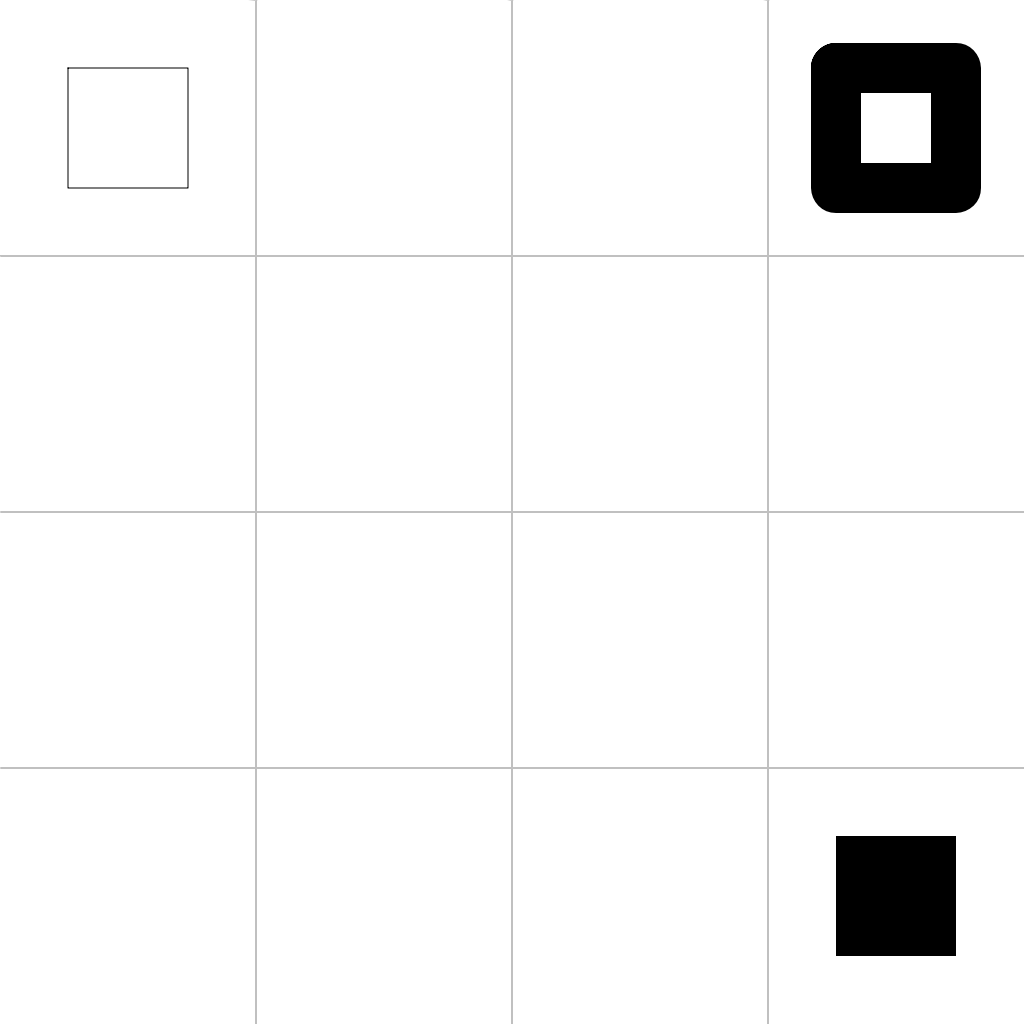
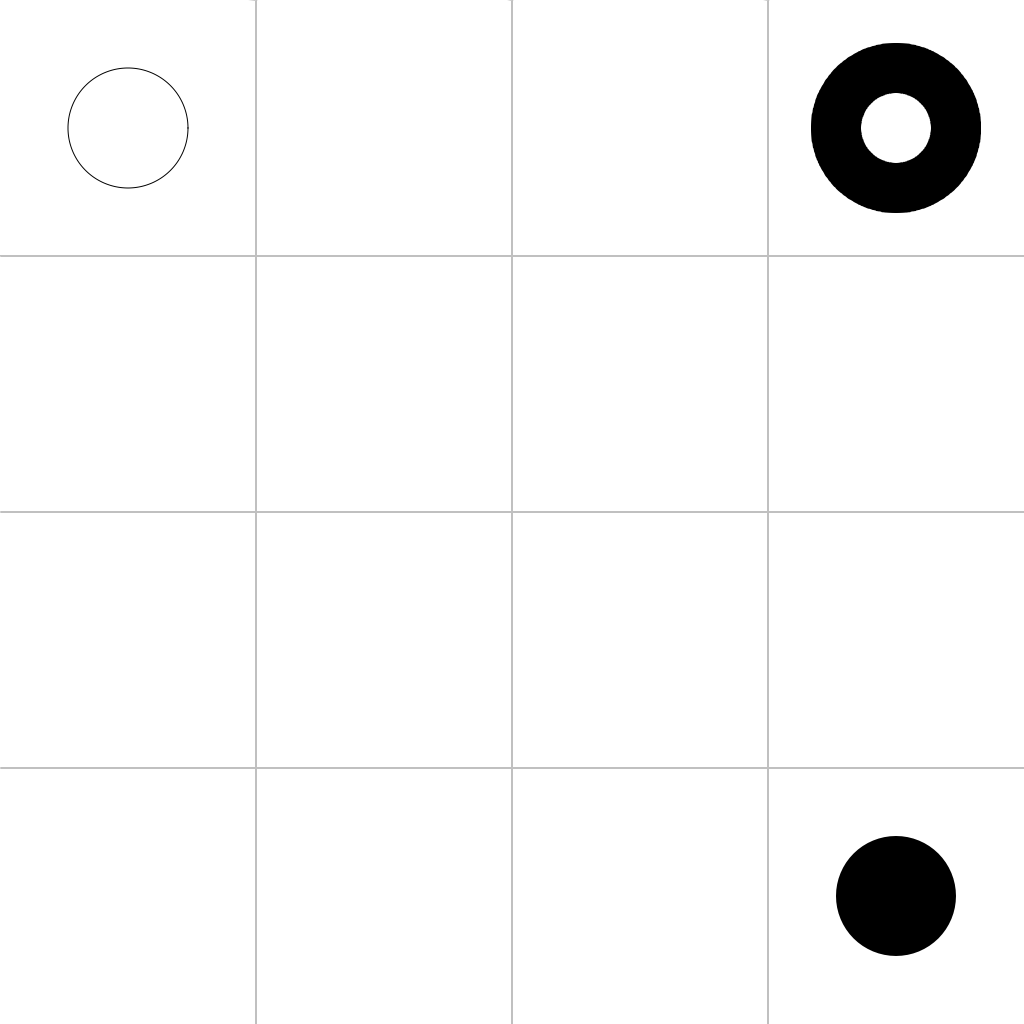
Clean up

diff --git a/examples/example9/example9.go b/examples/example9/example9.go
@@ -9,15 +9,15 @@ import (
 
 func main() {
 	imageConfig := gridder.ImageConfig{
-		Width:  2000,
-		Height: 1000,
+		Width:  1000,
+		Height: 1200,
 		Name:   "example9.png",
 	}
 	gridConfig := gridder.GridConfig{
-		Rows:              4,
-		Columns:           8,
-		LineStrokeWidth:   2,
-		BorderStrokeWidth: 18,
+		Rows:            6,
+		Columns:         5,
+		LineStrokeWidth: 2,
+		BackgroundColor: color.RGBA{R: 135, G: 211, B: 124, A: 255},
 	}
 
 	grid, err := gridder.New(imageConfig, gridConfig)
@@ -25,28 +25,29 @@ func main() {
 		log.Fatal(err)
 	}
 
-	lineConfig := gridder.LineConfig{Dashes: 10}
-	stringConfig := gridder.StringConfig{FontSize: 48}
-	circleConfig := gridder.CircleConfig{Color: color.Gray{}, Radius: 10}
+	headerStringConfig := gridder.StringConfig{FontSize: 100}
+	valueStringConfig := gridder.StringConfig{FontSize: 50}
 
-	grid.PaintCell(1, 2, color.NRGBA{R: 0, G: 0, B: 0, A: 255 / 2})
-	grid.DrawString(1, 2, "Block", stringConfig)
+	headers := []string{"B", "I", "N", "G", "O"}
+	values := [][]string{
+		{"10", "22", "41", "53", "71"},
+		{"66", "20", "40", "50", "2"},
+		{"14", "26", "FREE", "52", "69"},
+		{"15", "29", "37", "51", "65"},
+		{"17", "6", "35", "55", "64"},
+	}
 
-	grid.DrawCircle(0, 0, gridder.CircleConfig{Color: color.NRGBA{R: 255 / 2, G: 0, B: 0, A: 255 / 2}, Radius: 60})
-	grid.DrawLine(0, 0, 1, 1, lineConfig)
-	grid.DrawCircle(1, 1, circleConfig)
-	grid.DrawLine(1, 1, 2, 2, lineConfig)
-	grid.DrawCircle(2, 2, circleConfig)
-	grid.DrawLine(2, 2, 2, 3, lineConfig)
-	grid.DrawCircle(2, 3, circleConfig)
-	grid.DrawLine(2, 3, 2, 4, lineConfig)
-	grid.DrawCircle(2, 4, circleConfig)
-	grid.DrawLine(2, 4, 2, 5, lineConfig)
-	grid.DrawCircle(2, 5, circleConfig)
-	grid.DrawLine(2, 5, 2, 6, lineConfig)
-	grid.DrawCircle(2, 6, circleConfig)
-	grid.DrawLine(2, 6, 3, 7, lineConfig)
-	grid.DrawCircle(3, 7, gridder.CircleConfig{Color: color.NRGBA{R: 0, G: 255 / 2, B: 0, A: 255 / 2}, Radius: 60})
+	circleConfig := gridder.CircleConfig{Radius: 60, Color: color.White}
+	for i, header := range headers {
+		grid.DrawCircle(0, i, circleConfig)
+		grid.DrawString(0, i, header, headerStringConfig)
+	}
 
+	for row := range values {
+		for column := range values[0] {
+			grid.PaintCell(row+1, column, color.White)
+			grid.DrawString(row+1, column, values[row][column], valueStringConfig)
+		}
+	}
 	grid.SavePNG()
 }

diff --git a/examples/example8/example8.go b/examples/example8/example8.go
@@ -9,14 +9,15 @@ import (
 
 func main() {
 	imageConfig := gridder.ImageConfig{
-		Width:  1024,
-		Height: 1024,
+		Width:  2000,
+		Height: 1000,
 		Name:   "example8.png",
 	}
 	gridConfig := gridder.GridConfig{
-		Rows:            4,
-		Columns:         4,
-		LineStrokeWidth: 2,
+		Rows:              4,
+		Columns:           8,
+		LineStrokeWidth:   2,
+		BorderStrokeWidth: 18,
 	}
 
 	grid, err := gridder.New(imageConfig, gridConfig)
@@ -24,7 +25,28 @@ func main() {
 		log.Fatal(err)
 	}
 
-	grid.DrawString(1, 1, "Hello!")
-	grid.DrawString(2, 2, "Hello!", gridder.StringConfig{FontSize: 48, Color: color.RGBA{B: 255 / 2, A: 255 / 2}})
+	lineConfig := gridder.LineConfig{Dashes: 10}
+	stringConfig := gridder.StringConfig{FontSize: 48}
+	circleConfig := gridder.CircleConfig{Color: color.Gray{}, Radius: 10}
+
+	grid.PaintCell(1, 2, color.NRGBA{R: 0, G: 0, B: 0, A: 255 / 2})
+	grid.DrawString(1, 2, "Block", stringConfig)
+
+	grid.DrawCircle(0, 0, gridder.CircleConfig{Color: color.NRGBA{R: 255 / 2, G: 0, B: 0, A: 255 / 2}, Radius: 60})
+	grid.DrawLine(0, 0, 1, 1, lineConfig)
+	grid.DrawCircle(1, 1, circleConfig)
+	grid.DrawLine(1, 1, 2, 2, lineConfig)
+	grid.DrawCircle(2, 2, circleConfig)
+	grid.DrawLine(2, 2, 2, 3, lineConfig)
+	grid.DrawCircle(2, 3, circleConfig)
+	grid.DrawLine(2, 3, 2, 4, lineConfig)
+	grid.DrawCircle(2, 4, circleConfig)
+	grid.DrawLine(2, 4, 2, 5, lineConfig)
+	grid.DrawCircle(2, 5, circleConfig)
+	grid.DrawLine(2, 5, 2, 6, lineConfig)
+	grid.DrawCircle(2, 6, circleConfig)
+	grid.DrawLine(2, 6, 3, 7, lineConfig)
+	grid.DrawCircle(3, 7, gridder.CircleConfig{Color: color.NRGBA{R: 0, G: 255 / 2, B: 0, A: 255 / 2}, Radius: 60})
+
 	grid.SavePNG()
 }

diff --git a/examples/example6/example6.go b/examples/example6/example6.go
@@ -24,8 +24,9 @@ func main() {
 		log.Fatal(err)
 	}
 
-	grid.DrawCircle(0, 0, gridder.CircleConfig{Radius: 60, Color: color.Black, Stroke: true})
-	grid.DrawCircle(0, 3, gridder.CircleConfig{Radius: 60, Color: color.Black, Stroke: true, StrokeWidth: 50})
-	grid.DrawCircle(3, 3, gridder.CircleConfig{Radius: 60, Color: color.Black, Stroke: false})
+	grid.DrawLine(0, 0, 1, 1, gridder.LineConfig{Dashes: 0, StrokeWidth: 10, Color: color.Black})
+	grid.DrawLine(1, 1, 2, 1, gridder.LineConfig{Dashes: 5, StrokeWidth: 1, Color: color.Black})
+	grid.DrawLine(2, 1, 3, 1, gridder.LineConfig{Dashes: 8, StrokeWidth: 1, Color: color.Black})
+	grid.DrawLine(3, 1, 3, 2, gridder.LineConfig{Dashes: 0, StrokeWidth: 1, Color: color.Black})
 	grid.SavePNG()
 }

diff --git a/examples/example5/example5.go b/examples/example5/example5.go
@@ -24,8 +24,8 @@ func main() {
 		log.Fatal(err)
 	}
 
-	grid.DrawRectangle(0, 0, gridder.RectangleConfig{Width: 120, Height: 120, Color: color.Black, Stroke: true})
-	grid.DrawRectangle(0, 3, gridder.RectangleConfig{Width: 120, Height: 120, Color: color.Black, Stroke: true, StrokeWidth: 50})
-	grid.DrawRectangle(3, 3, gridder.RectangleConfig{Width: 120, Height: 120, Color: color.Black, Stroke: false})
+	grid.DrawCircle(0, 0, gridder.CircleConfig{Radius: 60, Color: color.Black, Stroke: true})
+	grid.DrawCircle(0, 3, gridder.CircleConfig{Radius: 60, Color: color.Black, Stroke: true, StrokeWidth: 50})
+	grid.DrawCircle(3, 3, gridder.CircleConfig{Radius: 60, Color: color.Black, Stroke: false})
 	grid.SavePNG()
 }

diff --git a/examples/example3/example3.go b/examples/example3/example3.go
@@ -11,7 +11,7 @@ func main() {
 	imageConfig := gridder.ImageConfig{
 		Width:  1024,
 		Height: 1024,
-		Name:   "example7.png",
+		Name:   "example3.png",
 	}
 	gridConfig := gridder.GridConfig{
 		Rows:            4,
@@ -24,7 +24,6 @@ func main() {
 		log.Fatal(err)
 	}
 
-	grid.DrawString(1, 1, "Hello!")
-	grid.DrawString(2, 2, "Hello!", gridder.StringConfig{FontSize: 48, Color: color.RGBA{B: 255 / 2, A: 255 / 2}})
+	grid.PaintCell(1, 2, color.Black)
 	grid.SavePNG()
 }

diff --git a/examples/example4/example4.go b/examples/example4/example4.go
@@ -24,6 +24,8 @@ func main() {
 		log.Fatal(err)
 	}
 
-	grid.PaintCell(1, 2, color.Black)
+	grid.DrawRectangle(0, 0, gridder.RectangleConfig{Width: 120, Height: 120, Color: color.Black, Stroke: true})
+	grid.DrawRectangle(0, 3, gridder.RectangleConfig{Width: 120, Height: 120, Color: color.Black, Stroke: true, StrokeWidth: 50})
+	grid.DrawRectangle(3, 3, gridder.RectangleConfig{Width: 120, Height: 120, Color: color.Black, Stroke: false})
 	grid.SavePNG()
 }

diff --git a/examples/example3/README.md b/examples/example3/README.md
@@ -1,0 +1,2 @@
+
+![Result](example3.png)
